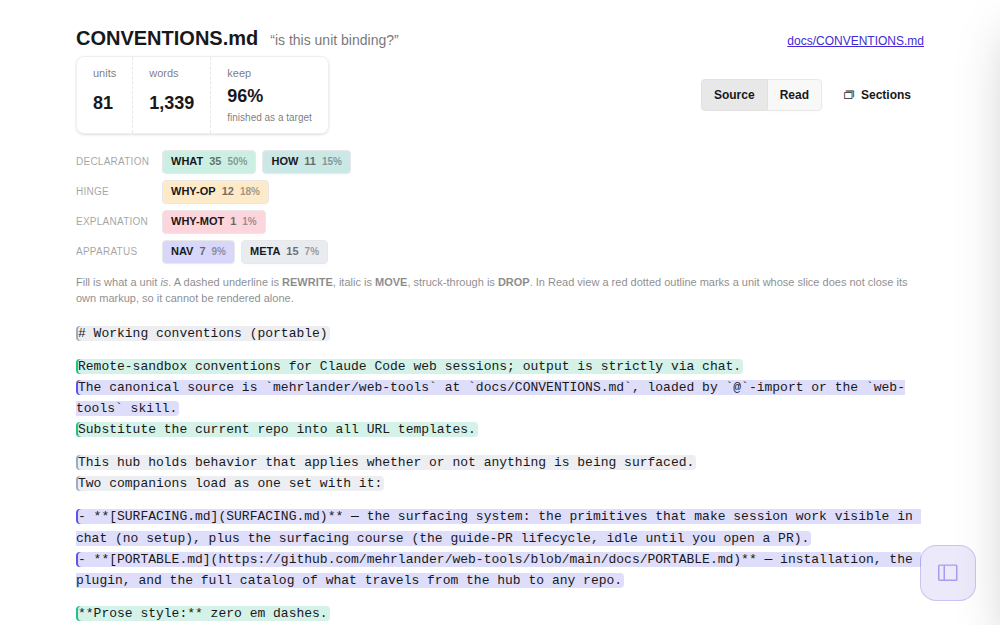
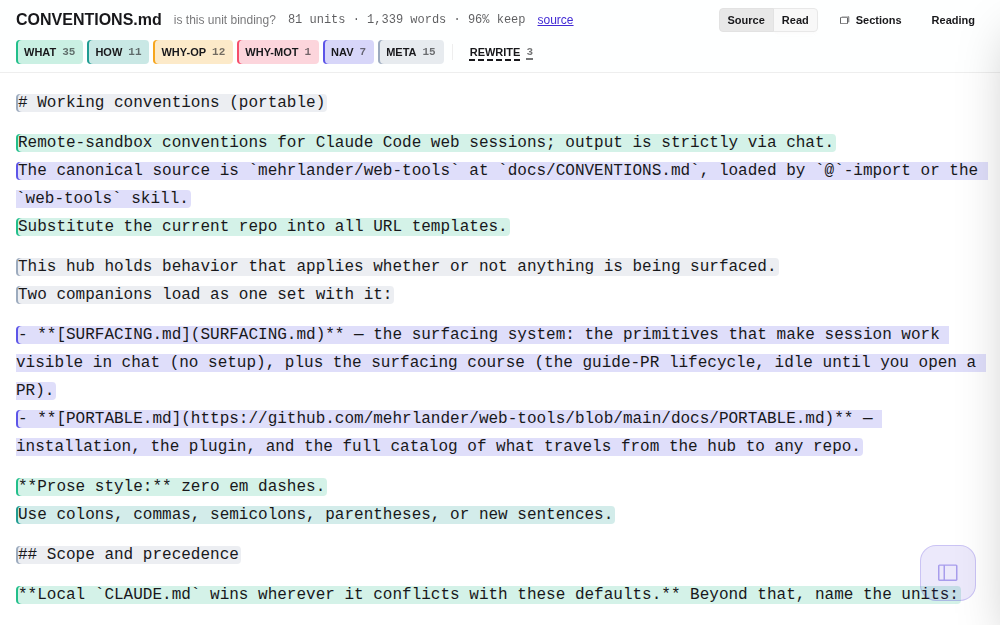
audit-render: hold the page to docs/HTML-STYLE.md
Six rules broken, all of them composition failures the three scans cannot see
(stranded-titles, opacity-scan and bool-attr-scan were clean before and after).

- Stat cards. Three of them, spending the best space on numbers with no
  baseline. Replaced by one compact header line, `81 units · 1,339 words · 96%
  keep`, with the density bands and the per-label table one tap away under
  Reading, which is where the doc says supporting analysis goes.
- Explanatory prose. A paragraph describing what the treatments meant. The
  legend now carries them instead: a REWRITE chip is dashed, MOVE italic, DROP
  struck, and the unrenderable-slice chip wears its own red dotted outline and
  appears only in Read view, where it applies. Nothing left to describe.
- Facts in a title attribute, set from JS so the scanner could not see them.
  Dropped; the detail bar already carries them on tap.
- max-w-4xl mx-auto, narrowing the page to a reading column.
- No tenant flow, on a page whose whole point is being tossed inside an iframe.
  Now min-h-dvh with sticky chrome and document scrolling.
- Type: a bespoke text-[13px] and prose prose-sm, against one content size and
  the guide renderer. Now text-base for source and GuideRender.bodyClass() for
  read, chrome at text-xs.

Two defects the rework surfaced. paint() assigned className to its host, wiping
the padding the page and each deck slide had given it, which is why content ran
[…]

diff --git a/pages/audit-render.html b/pages/audit-render.html
@@ -846,6 +846,7 @@ window.__audit = {
   await gh.load('vanilla-bundle.js');   // window.esc; the suite gates local copies
   await gh.load('kits/md-doc.js');
   await gh.load('kits/swipe-deck.js');
+  await gh.load('kits/guide-render.js');   // house markdown type, not prose-sm
   // md-doc's html() returns '' with no window.marked, which is a silent empty
   // render rather than an error. Found by looking at the pixels.
   window.marked = (await import('https://cdn.jsdelivr.net/npm/marked@12/+esm')).marked;
@@ -895,7 +896,13 @@ window.__audit = {
         Math.round(100 * this.a.units.filter(u => u.label === v.label)
                             .reduce((n, u) => n + u.words, 0) / t)]));
     },
+    HUE,
     dim(u) { return this.off[u.label] ? .12 : 1 },
+    verdicts(v) { return this.a.units.filter(u => u.verdict === v).length; },
+    get unrenderable() {
+      return this.a.units.filter(u => u.kind === 'sent'
+        && !balanced(this.a.text.slice(u.start, u.end).trim())).length;
+    },
     toggle(l) { this.off[l] = !this.off[l]; this.paint(); },
     // The verdict is the SECOND channel: fill says what a unit is, the mark says
     // what you decided to do with it, so one look answers both.
@@ -908,34 +915,39 @@ window.__audit = {
     unitHtml(u) {
       const raw = this.a.text.slice(u.start, u.end).trim();
       if (this.view === 'source') return { html: esc(raw), broken: false };
-      if (u.kind === 'code' || u.kind === 'table' || u.kind === 'heading')
-        return { html: mdDoc.html(raw, { proseClass: '' }), broken: false };
       if (!balanced(raw)) return { html: esc(raw), broken: true };
-      return { html: mdDoc.html(raw, { proseClass: '' }).replace(/^<p>|<\/p>\s*$/g, ''), broken: false };
+      const out = mdDoc.html(raw, { proseClass: '' });
+      // A list bullet is kind `sent` and still renders to a <ul>. Choose the
+      // wrapper from what markdown ACTUALLY produced, not from the unit's kind:
+      // keying on kind put every bullet's list inside a <span>, the parser
+      // hoisted it out, and the tint stayed behind as an empty stripe.
+      if (/^\s*<(ul|ol|table|pre|h[1-6]|blockquote)\b/i.test(out)) return { html: out, block: true };
+      return { html: out.replace(/^<p>|<\/p>\s*$/g, ''), block: false };
     },
     paint(host) {
-      const box = host || this.$refs.doc;
-      if (!box) return;
-      box.innerHTML = '';
+      const host_ = host || this.$refs.doc;
+      if (!host_) return;
+      host_.innerHTML = '';
+      // The type classes go on an inner element, never on the host: paint() does
+      // not own its container's layout, and assigning className to the host wiped
+      // the padding the page and the deck slide had each given it.
+      const box = document.createElement('div');
       box.className = this.view === 'source'
-        ? 'whitespace-pre-wrap font-mono text-[13px] leading-relaxed'
-        : 'prose prose-sm max-w-none';
+        ? 'whitespace-pre-wrap font-mono text-base leading-7'
+        : GuideRender.bodyClass();
+      host_.appendChild(box);
       for (const b of this.blocks) {
         const wrap = document.createElement(this.view === 'source' ? 'div' : 'div');
         wrap.className = this.view === 'source' ? 'mb-3' : 'mb-4';
         for (const u of b) {
-          const { html, broken } = this.unitHtml(u);
-          // A <table> or <pre> inside a <span> is hoisted out by the parser and
-          // leaves the tint behind as an empty stripe. Found in the pixels: the
-          // status table and both fences escaped their own units.
-          const block = this.view === 'read' && u.kind !== 'sent';
+          const { html, broken, block: isBlock } = this.unitHtml(u);
+          const block = this.view === 'read' && isBlock;
           const el = document.createElement(block ? 'div' : 'span');
           el.className = `cursor-pointer rounded-sm px-0.5 ${block ? 'py-1 my-2' : ''} ${this.mark(u.verdict)}`;
           el.style.background = tint(u.label, .18 * this.dim(u));
           el.style.boxShadow = `inset 2px 0 0 0 ${tint(u.label, .9 * this.dim(u))}`;
           el.style.opacity = this.dim(u);
           if (broken) el.style.outline = '1px dotted rgba(239,68,68,.8)';
-          el.title = `${u.uid} · ${u.label} · ${u.verdict}${broken ? ' · slice does not close its own markup' : ''}`;
           el.innerHTML = html + (this.view === 'source' ? '' : ' ');
           el.onclick = () => { this.sel = { ...u, broken, ref: this.srcRef(u) }; };
           wrap.appendChild(el);
@@ -971,72 +983,110 @@ window.__audit = {
   await gh.load('alpine-bundle.js');
 </script>
 </head>
-<body class="bg-base-100 min-h-screen" x-data="auditPage()" x-init="init()">
+<body class="bg-base-100 min-h-dvh" x-data="auditPage()" x-init="init()">
 <template x-if="a">
-  <div class="max-w-4xl mx-auto p-4 sm:p-6">
+  <div>
 
-    <div class="flex flex-wrap items-baseline gap-x-3 gap-y-1 mb-1">
-      <h1 class="text-xl font-semibold" x-text="a.title"></h1>
-      <span class="text-sm opacity-60" x-text="'“' + a.question + '”'"></span>
-      <a class="link link-primary text-xs ml-auto" :href="a.addr.url" x-show="a.addr.url" x-text="a.addr.path"></a>
-    </div>
-
-    <div class="flex flex-wrap items-center gap-2 mb-4">
-      <div class="stats stats-horizontal shadow-sm border border-base-300">
-        <div class="stat py-2 px-4"><div class="stat-title text-[11px]">units</div>
-          <div class="stat-value text-lg" x-text="a.units.length"></div></div>
-        <div class="stat py-2 px-4"><div class="stat-title text-[11px]">words</div>
-          <div class="stat-value text-lg" x-text="words.toLocaleString()"></div></div>
-        <div class="stat py-2 px-4"><div class="stat-title text-[11px]">keep</div>
-          <div class="stat-value text-lg" x-text="keepPct + '%'"></div>
-          <div class="stat-desc text-[10px]" x-text="keepPct >= 90 ? 'finished as a target' : keepPct >= 72 ? 'little to take' : 'loose; a pass will pay'"></div></div>
-      </div>
-      <div class="join ml-auto">
-        <button class="join-item btn btn-sm" :class="view==='source' && 'btn-active'"
-                @click="view='source'; paint()">Source</button>
-        <button class="join-item btn btn-sm" :class="view==='read' && 'btn-active'"
-                @click="view='read'; paint()">Read</button>
-      </div>
-      <button class="btn btn-sm btn-ghost" @click="deck()"><i class="ph ph-cards"></i> Sections</button>
-    </div>
-
-    <div class="mb-4 space-y-1.5">
-      <template x-for="s in sides" :key="s">
-        <div class="flex flex-wrap items-center gap-1.5">
-          <span class="text-[10px] uppercase tracking-wide opacity-40 w-20 shrink-0" x-text="s"></span>
-          <template x-for="v in vocab.filter(v => v.side === s)" :key="v.label">
-            <button class="btn btn-xs gap-1.5 border" :title="v.gloss"
-                    :style="`background:rgba(${({WHAT:'16,185,129',HOW:'13,148,136','WHY-OP':'245,158,11','WHY-MOT':'244,63,94',PROV:'219,39,119',EVID:'192,38,211',NAV:'79,70,229',META:'148,163,184'})[v.label]},${off[v.label]?0.04:0.22})`"
-                    :class="off[v.label] && 'opacity-40 line-through'"
-                    @click="toggle(v.label)">
-              <span x-text="v.label"></span>
-              <span class="opacity-60" x-text="count(v.label)"></span>
-              <span class="opacity-40 text-[10px]" x-text="shareOf[v.label] + '%'"></span>
-            </button>
-          </template>
+    <!-- Tenant chrome: this page is routinely tossed inside an iframe, so it
+         sticks rather than taking the viewport, and it does not narrow itself
+         to a reading column. The figure is one compact line, not stat cards:
+         the reading that gives those numbers meaning is one tap away, under
+         Reading. -->
+    <header class="sticky top-0 z-20 bg-base-100/90 backdrop-blur border-b border-base-300">
+      <div class="px-4 py-2 flex flex-wrap items-center gap-x-3 gap-y-1">
+        <span class="font-semibold" x-text="a.title"></span>
+        <span class="text-xs opacity-60" x-text="a.question"></span>
+        <span class="text-xs font-mono opacity-70"
+              x-text="`${a.units.length} units · ${words.toLocaleString()} words · ${keepPct}% keep`"></span>
+        <a class="text-xs link link-primary" :href="a.addr.url" x-show="a.addr.url">source</a>
+        <div class="join ml-auto">
+          <button class="join-item btn btn-xs" :class="view==='source' && 'btn-active'"
+                  @click="view='source'; paint()">Source</button>
+          <button class="join-item btn btn-xs" :class="view==='read' && 'btn-active'"
+                  @click="view='read'; paint()">Read</button>
         </div>
-      </template>
-      <p class="text-[11px] opacity-50 pt-1">
-        Fill is what a unit <em>is</em>. A dashed underline is <b>REWRITE</b>, italic is <b>MOVE</b>,
-        struck-through is <b>DROP</b>. In Read view a red dotted outline marks a unit whose slice
-        does not close its own markup, so it cannot be rendered alone.
-      </p>
-    </div>
+        <button class="btn btn-xs btn-ghost" @click="deck()"><i class="ph ph-cards"></i> Sections</button>
+        <button class="btn btn-xs btn-ghost" @click="$refs.reading.showModal()">Reading</button>
+      </div>
 
-    <div x-ref="doc"></div>
+      <!-- The legend is the explanation. Each chip carries the treatment it
+           names, so a label chip is tinted as its units are and a verdict chip
+           is struck, dashed or italic as its units are. Nothing left to say in
+           prose. -->
+      <div class="px-4 pb-2 flex flex-wrap items-center gap-1">
+        <template x-for="v in vocab" :key="v.label">
+          <button class="btn btn-xs gap-1.5 border-0"
+                  :style="`background:rgba(${HUE[v.label]},${off[v.label]?0.05:0.22});
+                           box-shadow:inset 2px 0 0 0 rgba(${HUE[v.label]},${off[v.label]?0.2:0.9})`"
+                  :class="off[v.label] && 'opacity-40'"
+                  @click="toggle(v.label)">
+            <span x-text="v.label"></span>
+            <span class="opacity-60 font-mono" x-text="count(v.label)"></span>
+          </button>
+        </template>
+        <span class="w-px h-4 bg-base-300 mx-1"></span>
+        <template x-for="v in ['REWRITE','MOVE','DROP']" :key="v">
+          <span class="btn btn-xs btn-ghost no-animation cursor-default gap-1.5"
+                :class="mark(v)" x-show="verdicts(v)">
+            <span x-text="v"></span>
+            <span class="opacity-60 font-mono" x-text="verdicts(v)"></span>
+          </span>
+        </template>
+        <span class="btn btn-xs btn-ghost no-animation cursor-default gap-1.5"
+              style="outline:1px dotted rgba(239,68,68,.8)"
+              x-show="view==='read' && unrenderable">
+          <span>slice does not close</span>
+          <span class="opacity-60 font-mono" x-text="unrenderable"></span>
+        </span>
+      </div>
+    </header>
 
-    <div class="fixed bottom-0 inset-x-0 bg-base-200 border-t border-base-300 p-3 text-xs" x-show="sel" x-cloak>
-      <div class="max-w-4xl mx-auto flex flex-wrap gap-x-4 gap-y-1 items-baseline">
-        <b x-text="sel?.uid"></b>
-        <span class="badge badge-sm" :style="`background:rgba(${({WHAT:'16,185,129',HOW:'13,148,136','WHY-OP':'245,158,11','WHY-MOT':'244,63,94',PROV:'219,39,119',EVID:'192,38,211',NAV:'79,70,229',META:'148,163,184'})[sel?.label]},.25);border:none`" x-text="sel?.label"></span>
+    <div x-ref="doc" class="px-4 py-4"></div>
+
+    <div class="sticky bottom-0 bg-base-200 border-t border-base-300 px-4 py-2 text-xs"
+         x-show="sel" x-cloak>
+      <div class="flex flex-wrap gap-x-4 gap-y-1 items-baseline">
+        <b class="font-mono" x-text="sel?.uid"></b>
+        <span class="badge badge-sm border-0"
+              :style="`background:rgba(${HUE[sel?.label]},.25)`" x-text="sel?.label"></span>
         <span class="opacity-60" x-text="gloss(sel?.label)"></span>
         <span class="badge badge-sm badge-outline" x-text="sel?.verdict"></span>
-        <span class="opacity-60" x-text="sel?.words + 'w · ' + sel?.kind"></span>
-        <span class="opacity-60 font-mono text-[10px]" x-text="sel?.ref"></span>
+        <span class="opacity-60 font-mono" x-text="sel?.words + 'w · ' + sel?.kind"></span>
+        <span class="opacity-60 font-mono" x-text="sel?.ref"></span>
         <span class="text-error" x-show="sel?.broken">slice does not close its own markup</span>
         <button class="btn btn-ghost btn-xs ml-auto" @click="sel=null">close</button>
       </div>
     </div>
+
+    <!-- Where the numbers went: the header carries the figure, the reading that
+         makes it mean something lives here, one tap away. -->
+    <dialog class="modal" x-ref="reading">
+      <div class="modal-box max-w-lg">
+        <table class="table table-sm">
+          <tbody>
+            <tr><td class="font-mono" x-text="keepPct + '% keep'"></td>
+                <td x-text="keepPct >= 90 ? 'finished as a compression target'
+                          : keepPct >= 72 ? 'little to take; a pass yields corrections, not cuts'
+                          : 'loose; a pass should beat its own floor'"></td></tr>
+            <tr><td class="font-mono">50-65%</td><td>loose prose, beats its floor</td></tr>
+            <tr><td class="font-mono">72%+</td><td>misses its floor because there is little to take</td></tr>
+            <tr><td class="font-mono">~100%</td><td>stop: it needs a reader, not a pass</td></tr>
+          </tbody>
+        </table>
+        <table class="table table-sm mt-2">
+          <thead><tr><th>label</th><th>units</th><th>words</th><th>side</th></tr></thead>
+          <tbody>
+            <template x-for="v in vocab" :key="v.label">
+              <tr><td class="font-mono" x-text="v.label"></td>
+                  <td class="font-mono" x-text="count(v.label)"></td>
+                  <td class="font-mono" x-text="shareOf[v.label] + '%'"></td>
+                  <td class="opacity-60" x-text="v.side"></td></tr>
+            </template>
+          </tbody>
+        </table>
+        <form method="dialog" class="modal-backdrop"><button class="btn btn-sm btn-block mt-3">close</button></form>
+      </div>
+    </dialog>
 
   </div>
 </template>
